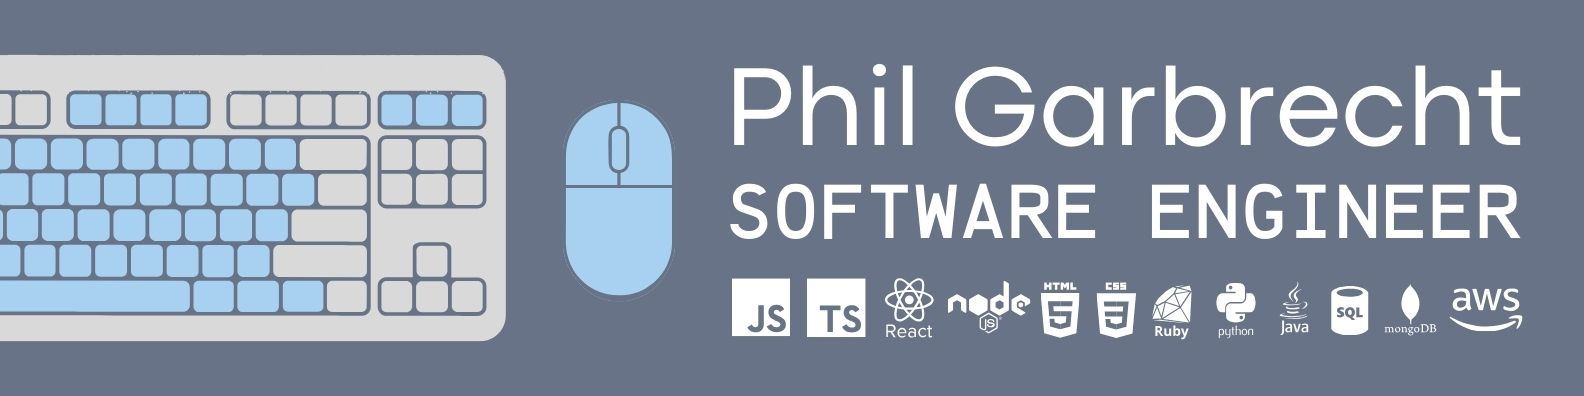
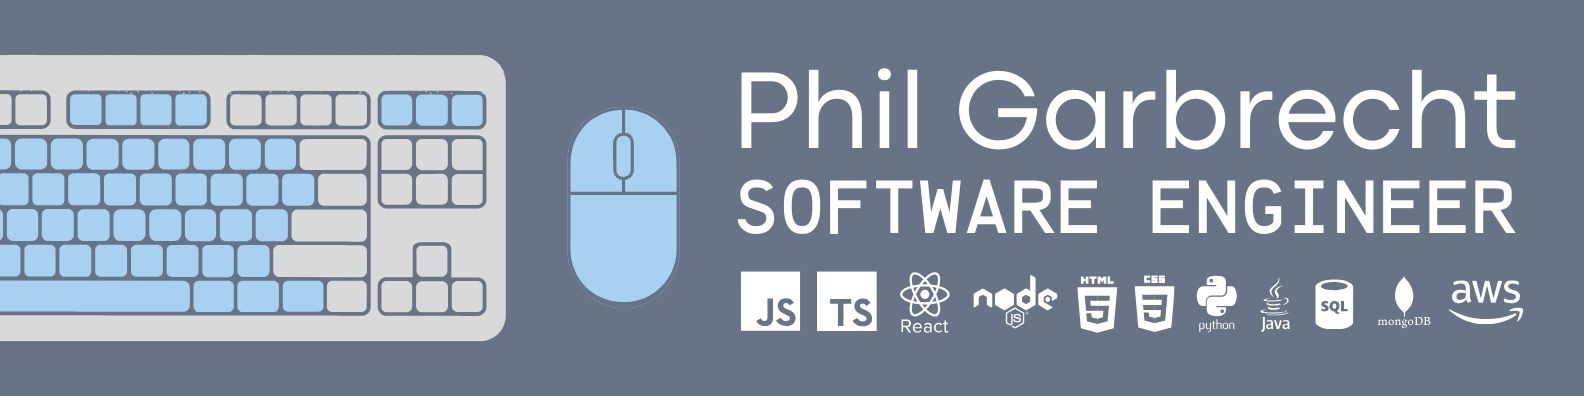
updates content

diff --git a/README.md b/README.md
@@ -13,7 +13,7 @@
   
   <h2>Skills</h2>   <!--Note: the space needs to be below this for proper formatting -->
                                                                                              
-<img src="https://cdn.jsdelivr.net/gh/devicons/devicon/icons/javascript/javascript-plain.svg" height="60px" alt="javascript logo"/> <img src="https://cdn.jsdelivr.net/gh/devicons/devicon/icons/typescript/typescript-original.svg" height="60px" alt="typescript logo"/> <img src="https://cdn.jsdelivr.net/gh/devicons/devicon/icons/react/react-original-wordmark.svg" height="60px" alt="react logo"/> <img src="https://cdn.jsdelivr.net/gh/devicons/devicon/icons/nodejs/nodejs-plain-wordmark.svg" height="60px" alt="node js logo"/> <img src="https://cdn.jsdelivr.net/gh/devicons/devicon/icons/html5/html5-plain-wordmark.svg" height="60px" alt="html5 logo"/> <img src="https://cdn.jsdelivr.net/gh/devicons/devicon/icons/css3/css3-plain-wordmark.svg" height="60px" alt="css3 logo"/> <img src="https://cdn.jsdelivr.net/gh/devicons/devicon@latest/icons/ruby/ruby-plain-wordmark.svg" height="60px" alt="ruby logo"/> <img src="https://cdn.jsdelivr.net/gh/devicons/devicon/icons/python/python-original-wordmark.svg" height="60px" alt="python logo"/> <img src="https://cdn.jsdelivr.net/gh/devicons/devicon@latest/icons/java/java-original-wordmark.svg" height="60px" alt="java logo"/> <img src="https://cdn.jsdelivr.net/gh/devicons/devicon@latest/icons/azuresqldatabase/azuresqldatabase-original.svg" height="60px" alt="sql logo"/> <img src="https://cdn.jsdelivr.net/gh/devicons/devicon/icons/mongodb/mongodb-plain-wordmark.svg" height="60px" alt="mongodb logo"/> <img src="https://cdn.jsdelivr.net/gh/devicons/devicon/icons/amazonwebservices/amazonwebservices-original-wordmark.svg" height="60px" alt="aws logo"/>
+<img src="https://cdn.jsdelivr.net/gh/devicons/devicon/icons/javascript/javascript-plain.svg" height="60px" alt="javascript logo"/> <img src="https://cdn.jsdelivr.net/gh/devicons/devicon/icons/typescript/typescript-original.svg" height="60px" alt="typescript logo"/> <img src="https://cdn.jsdelivr.net/gh/devicons/devicon/icons/react/react-original-wordmark.svg" height="60px" alt="react logo"/> <img src="https://cdn.jsdelivr.net/gh/devicons/devicon/icons/nodejs/nodejs-plain-wordmark.svg" height="60px" alt="node js logo"/> <img src="https://cdn.jsdelivr.net/gh/devicons/devicon/icons/html5/html5-plain-wordmark.svg" height="60px" alt="html5 logo"/> <img src="https://cdn.jsdelivr.net/gh/devicons/devicon/icons/css3/css3-plain-wordmark.svg" height="60px" alt="css3 logo"/> <img src="https://cdn.jsdelivr.net/gh/devicons/devicon/icons/python/python-original-wordmark.svg" height="60px" alt="python logo"/> <img src="https://cdn.jsdelivr.net/gh/devicons/devicon@latest/icons/java/java-original-wordmark.svg" height="60px" alt="java logo"/> <img src="https://cdn.jsdelivr.net/gh/devicons/devicon@latest/icons/azuresqldatabase/azuresqldatabase-original.svg" height="60px" alt="sql logo"/> <img src="https://cdn.jsdelivr.net/gh/devicons/devicon/icons/mongodb/mongodb-plain-wordmark.svg" height="60px" alt="mongodb logo"/> <img src="https://cdn.jsdelivr.net/gh/devicons/devicon/icons/amazonwebservices/amazonwebservices-original-wordmark.svg" height="60px" alt="aws logo"/>
   
   <h2>Connect</h2> 
   <a href = "https://www.linkedin.com/in/philgarbrecht/">🔗 Add me on LinkedIn</a> | <a href = "mailto: philgarbrecht@gmail.com">📫 Email me</a>                                                                                                                             
